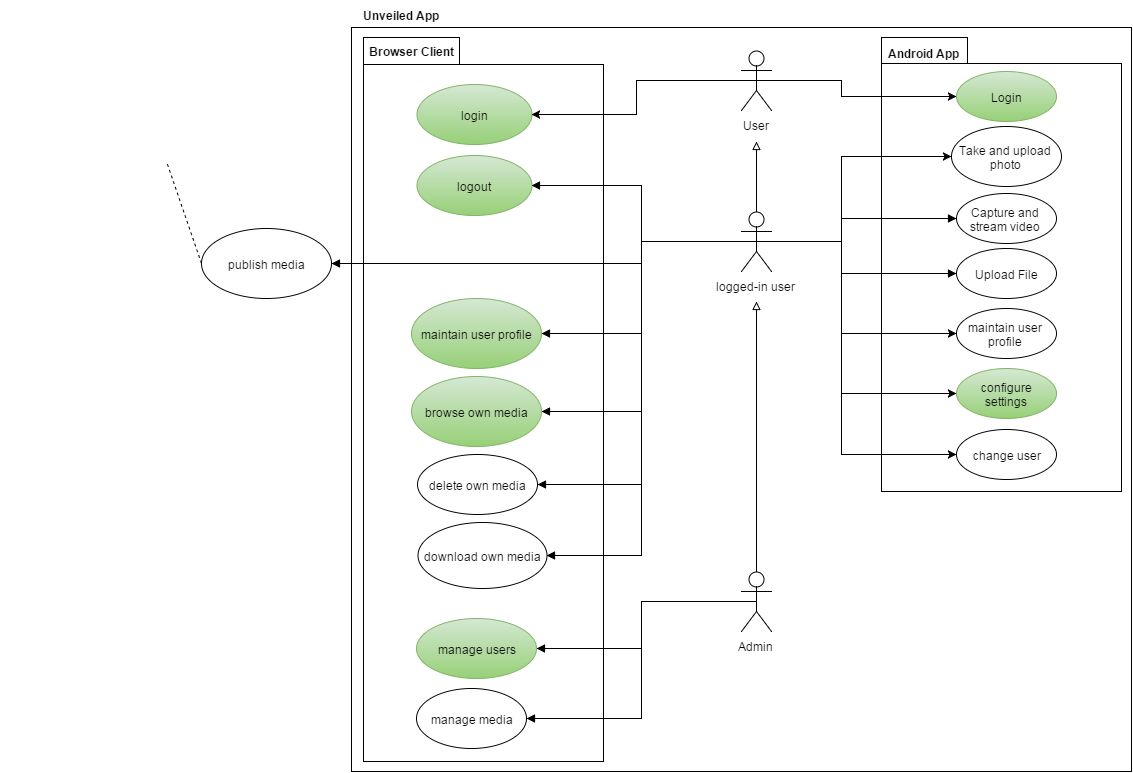
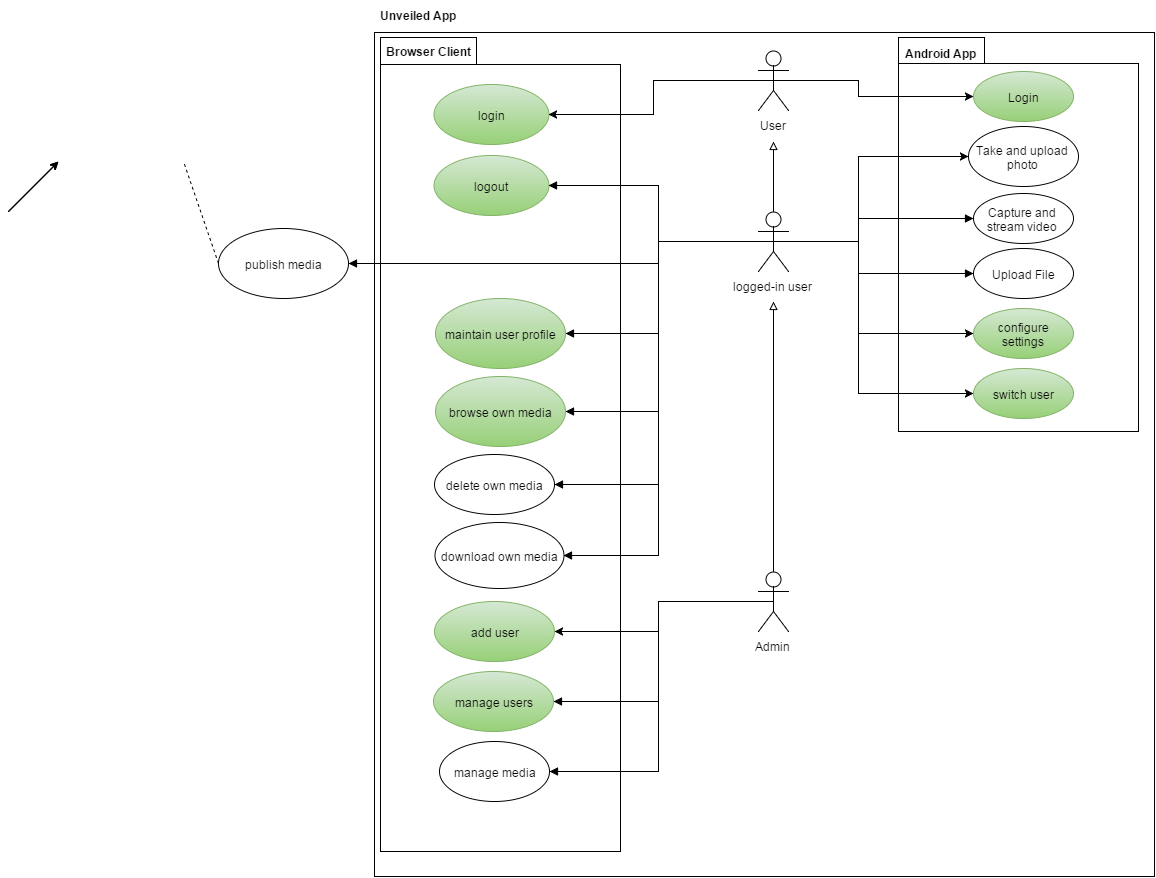
changed some descriptions in SRS and UC descriptions and also added new UC: switch user

diff --git a/SRS/UC2_Configure_settings.md b/SRS/UC2_Configure_settings.md
@@ -4,7 +4,7 @@
 Configure settings in Android App.
 
 ### 1.1 Brief Description
-The user is able to configure settings like server FQDN and login-data to access the streaming server. Addionally the user has the ability to change general picture and video settings.
+The user is able to configure the information how to access the streaming server. Additionally the user has the ability to change general picture and video quality settings.
 
 ### 1.2 Screenshot Mockup
 ![][screenshot]
@@ -20,29 +20,22 @@ The user is able to configure settings like server FQDN and login-data to access
 
 
 ## 3. Special Requirements
-
 (tbd)
 
 
 ## 4. Preconditions
-
-### 4.1 Approved user
-Before the user is able to manage settings, he should have an valid account on the server he will specify in the settings.
-
-### 4.2 User on the main page
-The user should have already opened the Unveiled Android Application on his smartphone and navigated to the seetings screen.
+### 4.1 User on the main page
+The user should have already opened the Unveiled Android Application on his smartphone and navigated to the settings screen.
 
 ## 5. Postconditions
 The following use cases require this use case to be completed:
 - Login
-- Maintain profile
 - Capture videos and photos
-- Upload photos
-- Logout
+- Upload file
+- Switch user
 
 
 ## 6. Extension Points
-
 N/A
 
 <!-- Link definitions: -->

diff --git a/SRS/UC4_Switch_user.md b/SRS/UC4_Switch_user.md
@@ -1,0 +1,47 @@
+# Unveiled - Use-Case Specification: Configure settings
+
+## 1. Use-Case Name
+Switch user in Android App.
+
+### 1.1 Brief Description
+In the settings screen the user is able to type in login information for the specified server. This login information can be changed every time.
+
+### 1.2 Screenshot Mockup
+![][screenshot]
+
+## 2. Flow of Events
+
+### 2.1 Basic Flow
+![][basic flow]
+![][gherkin]
+
+### 2.2 Alternative Flow
+(n/a)
+
+
+## 3. Special Requirements
+(tbd)
+
+
+## 4. Preconditions
+
+### 4.1 Approved user
+Before the user is able to type in his login information, he should have an valid account on the server stated in the settings.
+
+### 4.2 User on the main page
+The user should have already opened the Unveiled Android Application on his smartphone and navigated to the settings screen.
+
+## 5. Postconditions
+The following use cases require this use case to be completed:
+- Capture videos and photos
+- Upload file
+
+
+## 6. Extension Points
+N/A
+
+<!-- Link definitions: -->
+[basic flow]: .. "Use Case Diagram: Switch user"
+
+[screenshot]: .. "Settings-Screen Mockup"
+[gherkin]: .. "feature description in gherkin"
